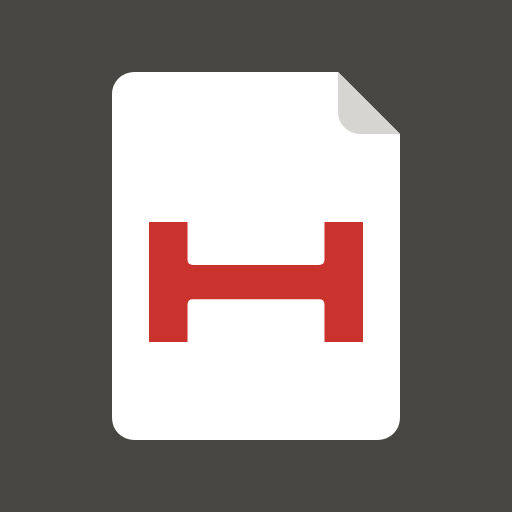
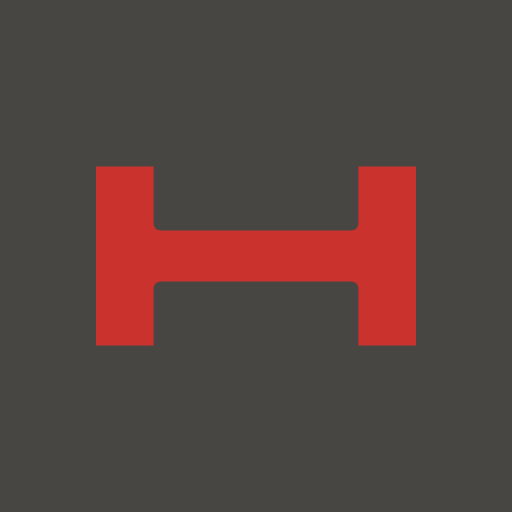
Neues App-Symbol (rotes H), BauDoc-Symbol im Menü
Claude-Session: https://claude.ai/code/session_012pQWCYKrqKXtQahET16BEX

diff --git a/js/app.js b/js/app.js
@@ -325,7 +325,7 @@ function openDrawer() {
   $("#drawerSparten").innerHTML = SPARTEN.map((sp) => {
     const on = st.sparte === sp.id && st.view !== "settings";
     return `<button type="button" class="drawer-item ${on ? "active" : ""}" data-sparte="${sp.id}" aria-current="${on ? "true" : "false"}">
-      <span class="d-ico">${SPARTE_ICONS[sp.id] || ""}</span>
+      <span class="d-ico${sp.icon ? " img" : ""}">${sp.icon ? `<img src="${h(sp.icon)}" alt="">` : SPARTE_ICONS[sp.id] || ""}</span>
       <span class="d-text"><b>${h(sp.name)}</b><small>${h(sp.desc)}</small></span>
       ${st.sparte === sp.id ? '<svg class="ico d-check" viewBox="0 0 24 24" aria-hidden="true"><path d="M5 12.5l4.5 4.5L19 7.5"/></svg>' : ""}
     </button>`;

diff --git a/index.html b/index.html
@@ -199,6 +199,8 @@
     .drawer-item .d-text small { color: var(--brand-gray-500); font-size: .82rem; }
     .drawer-item.active { background: var(--brand-gray-100); border-color: var(--brand-gray-200); }
     .drawer-item.active .d-ico { background: var(--brand-gray-700); color: #fff; }
+    .drawer-item .d-ico.img { overflow: hidden; background: none; }
+    .drawer-item .d-ico.img img { width: 100%; height: 100%; display: block; }
     .drawer-item .d-check { margin-left: auto; color: var(--brand-gray-700); }
     .drawer-sep { height: 1px; background: var(--brand-gray-200); margin: 10px 4px; }
     .drawer-foot { margin-top: auto; padding: 12px 8px 0; font-size: .78rem; }

diff --git a/sw.js b/sw.js
@@ -4,7 +4,7 @@
    bei fehlendem Netz der zwischengespeicherte Stand.
    Bei jeder neuen Version CACHE hochzählen.
 ========================================================= */
-const CACHE = "baudoc-3.4.0-beta-1";
+const CACHE = "baudoc-3.4.1-beta-1";
 const ASSETS = [
   "./",
   "./index.html",
@@ -15,6 +15,7 @@ const ASSETS = [
   "./icon-maskable-512.png",
   "./apple-touch-icon.png",
   "./favicon.svg",
+  "./sparte-baudoc.svg",
   "./favicon-16.png",
   "./favicon-32.png",
   "./favicon-48.png",

diff --git a/js/config.js b/js/config.js
@@ -23,8 +23,8 @@ export const CONFIG = {
 
 // Sparten der App (später je Nutzer freischaltbar)
 export const SPARTEN = [
-  { id: "doc", name: "BauDoc", desc: "Baustellendokumentation" },
+  { id: "doc", name: "BauDoc", desc: "Doku, Abnahme", icon: "sparte-baudoc.svg" },
   { id: "mon", name: "BauMon", desc: "Montage" },
 ];
 
-export const APP_VERSION = "3.4.0-beta";
+export const APP_VERSION = "3.4.1-beta";
